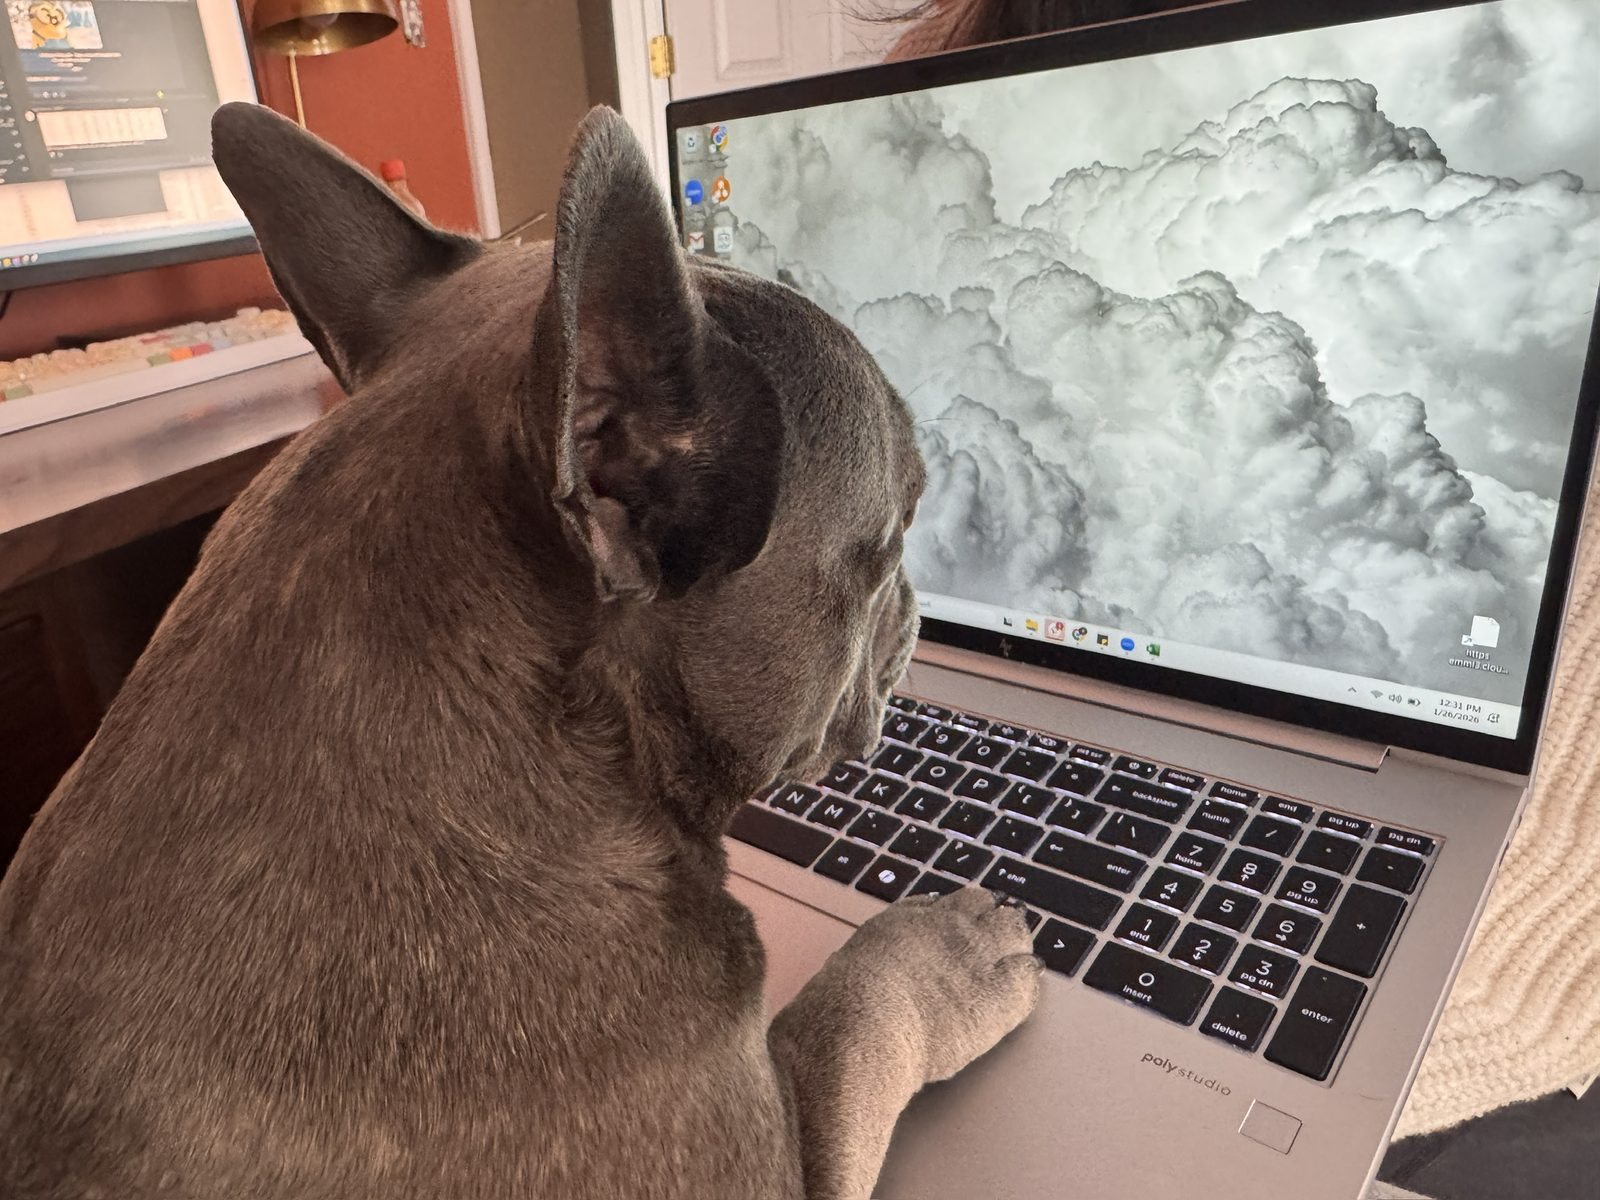
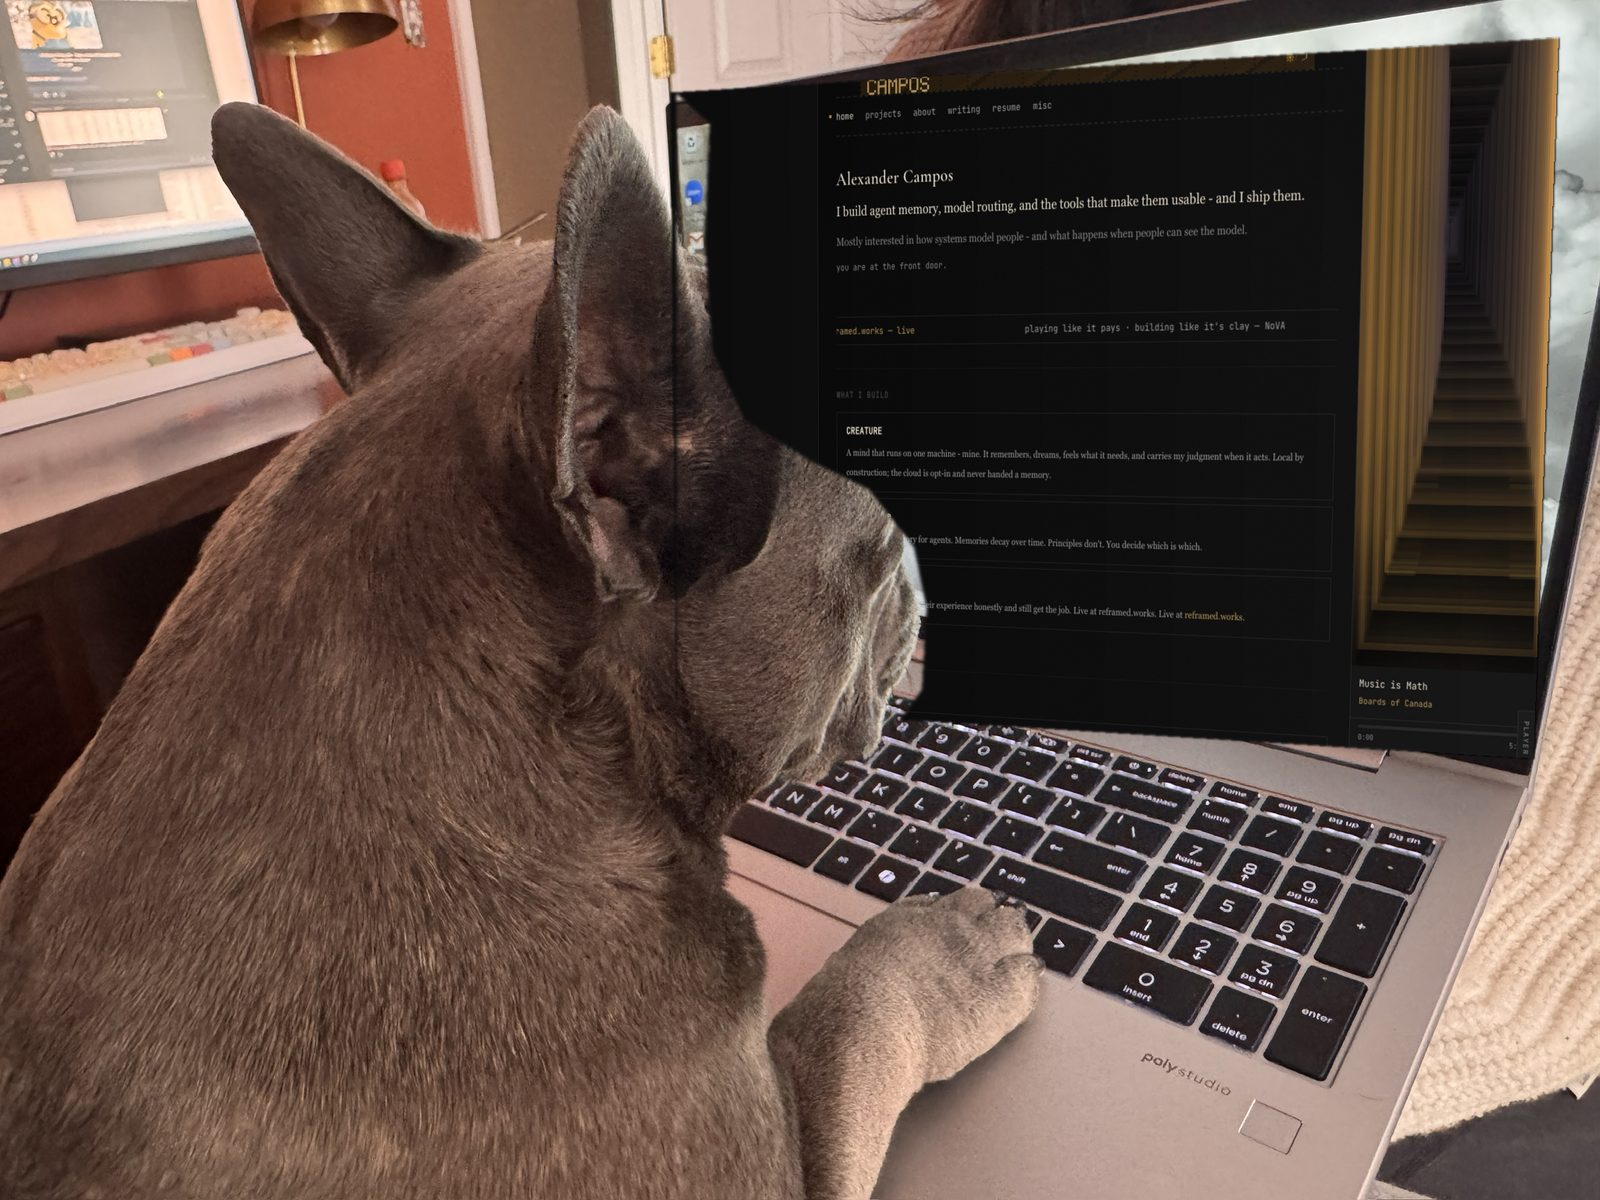
oliver's room gets the real photo; illuminator plate joins the sovereign-mind essay

Changed region(s): [[0.4062, 0.0308, 1.0, 0.6475]]

diff --git a/public/islands/assistant.js b/public/islands/assistant.js
@@ -724,6 +724,22 @@
     nameLabel.textContent = esc(name);
     stage.appendChild(nameLabel);
 
+    // A real photo of the room's owner, hung on the wall
+    var photoLink = document.createElement('a');
+    photoLink.className = 'or-photo';
+    photoLink.href = '/about';
+    var photoImg = document.createElement('img');
+    photoImg.src = '/images/office.jpg';
+    photoImg.alt = 'oliver at the real laptop, reading this very site';
+    photoImg.loading = 'lazy';
+    photoImg.decoding = 'async';
+    photoLink.appendChild(photoImg);
+    var photoCap = document.createElement('span');
+    photoCap.className = 'or-photo-cap';
+    photoCap.textContent = 'me irl';
+    photoLink.appendChild(photoCap);
+    stage.appendChild(photoLink);
+
     // ── Feature 3: Treat button (bone replaces ~) ──
     var treatBtn = document.createElement('button');
     treatBtn.className = 'or-treat';
@@ -1279,6 +1295,19 @@
       '.or-name {',
       '  font-size: 0.55rem; color: var(--white-20); margin-top: 6px;',
       '  letter-spacing: 0.05em;',
+      '}',
+      '',
+      '/* the photo on the wall */',
+      '.or-photo {',
+      '  display: block; width: 86%; margin: 8px auto 0; text-decoration: none;',
+      '  border: 1px solid var(--white-08); padding: 4px 4px 2px;',
+      '  background: var(--depth-2); transition: border-color 0.2s;',
+      '}',
+      '.or-photo:hover { border-color: var(--gold-accent); }',
+      '.or-photo img { width: 100%; display: block; }',
+      '.or-photo-cap {',
+      '  display: block; font-size: 0.55rem; color: var(--white-20);',
+      '  text-align: center; padding: 3px 0 2px; letter-spacing: 0.05em;',
       '}',
       '',
       '/* Treat button */',
